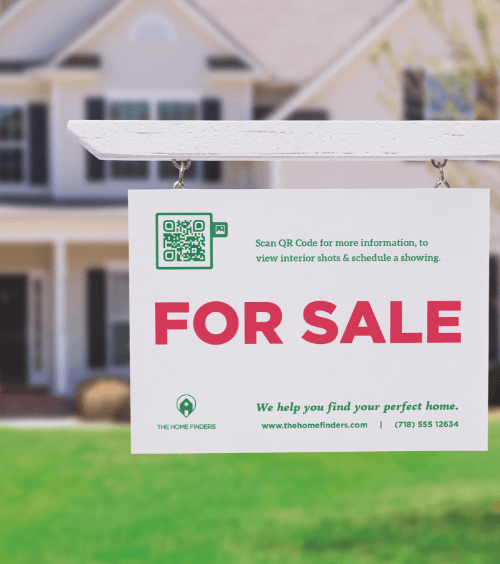
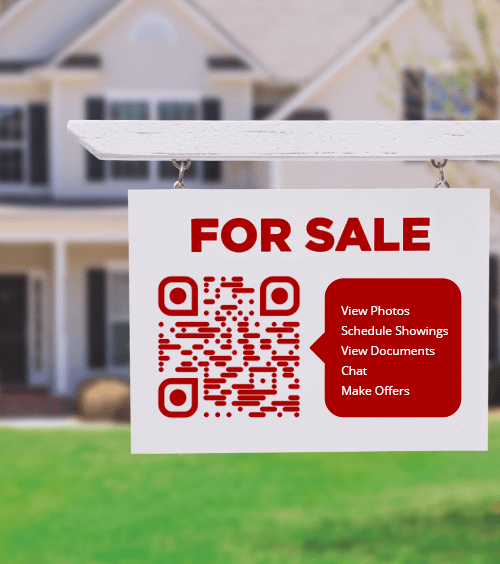
added correct qr code image to home screen

Changed region(s): [[0.3, 0.3617, 0.93, 0.7837]]

diff --git a/components/header/Search.jsx b/components/header/Search.jsx
@@ -58,8 +58,7 @@ const Hit = ({hit}) => {
           <Card.Body>
             <Card.Title className='text-white'>{hit.fullAddress}</Card.Title>
             <Card.Text className='text-white'>
-              Some quick example text to build on the card title and make up the bulk of
-              the card's content.
+              1. View Home Details  2. Schedule an appointment 3. Chat with seller  4. Make an offer
             </Card.Text>
             <Button onClick={() => router.push(`/listing/${hit.id}`)} variant="primary">Visit Home</Button>
           </Card.Body>
